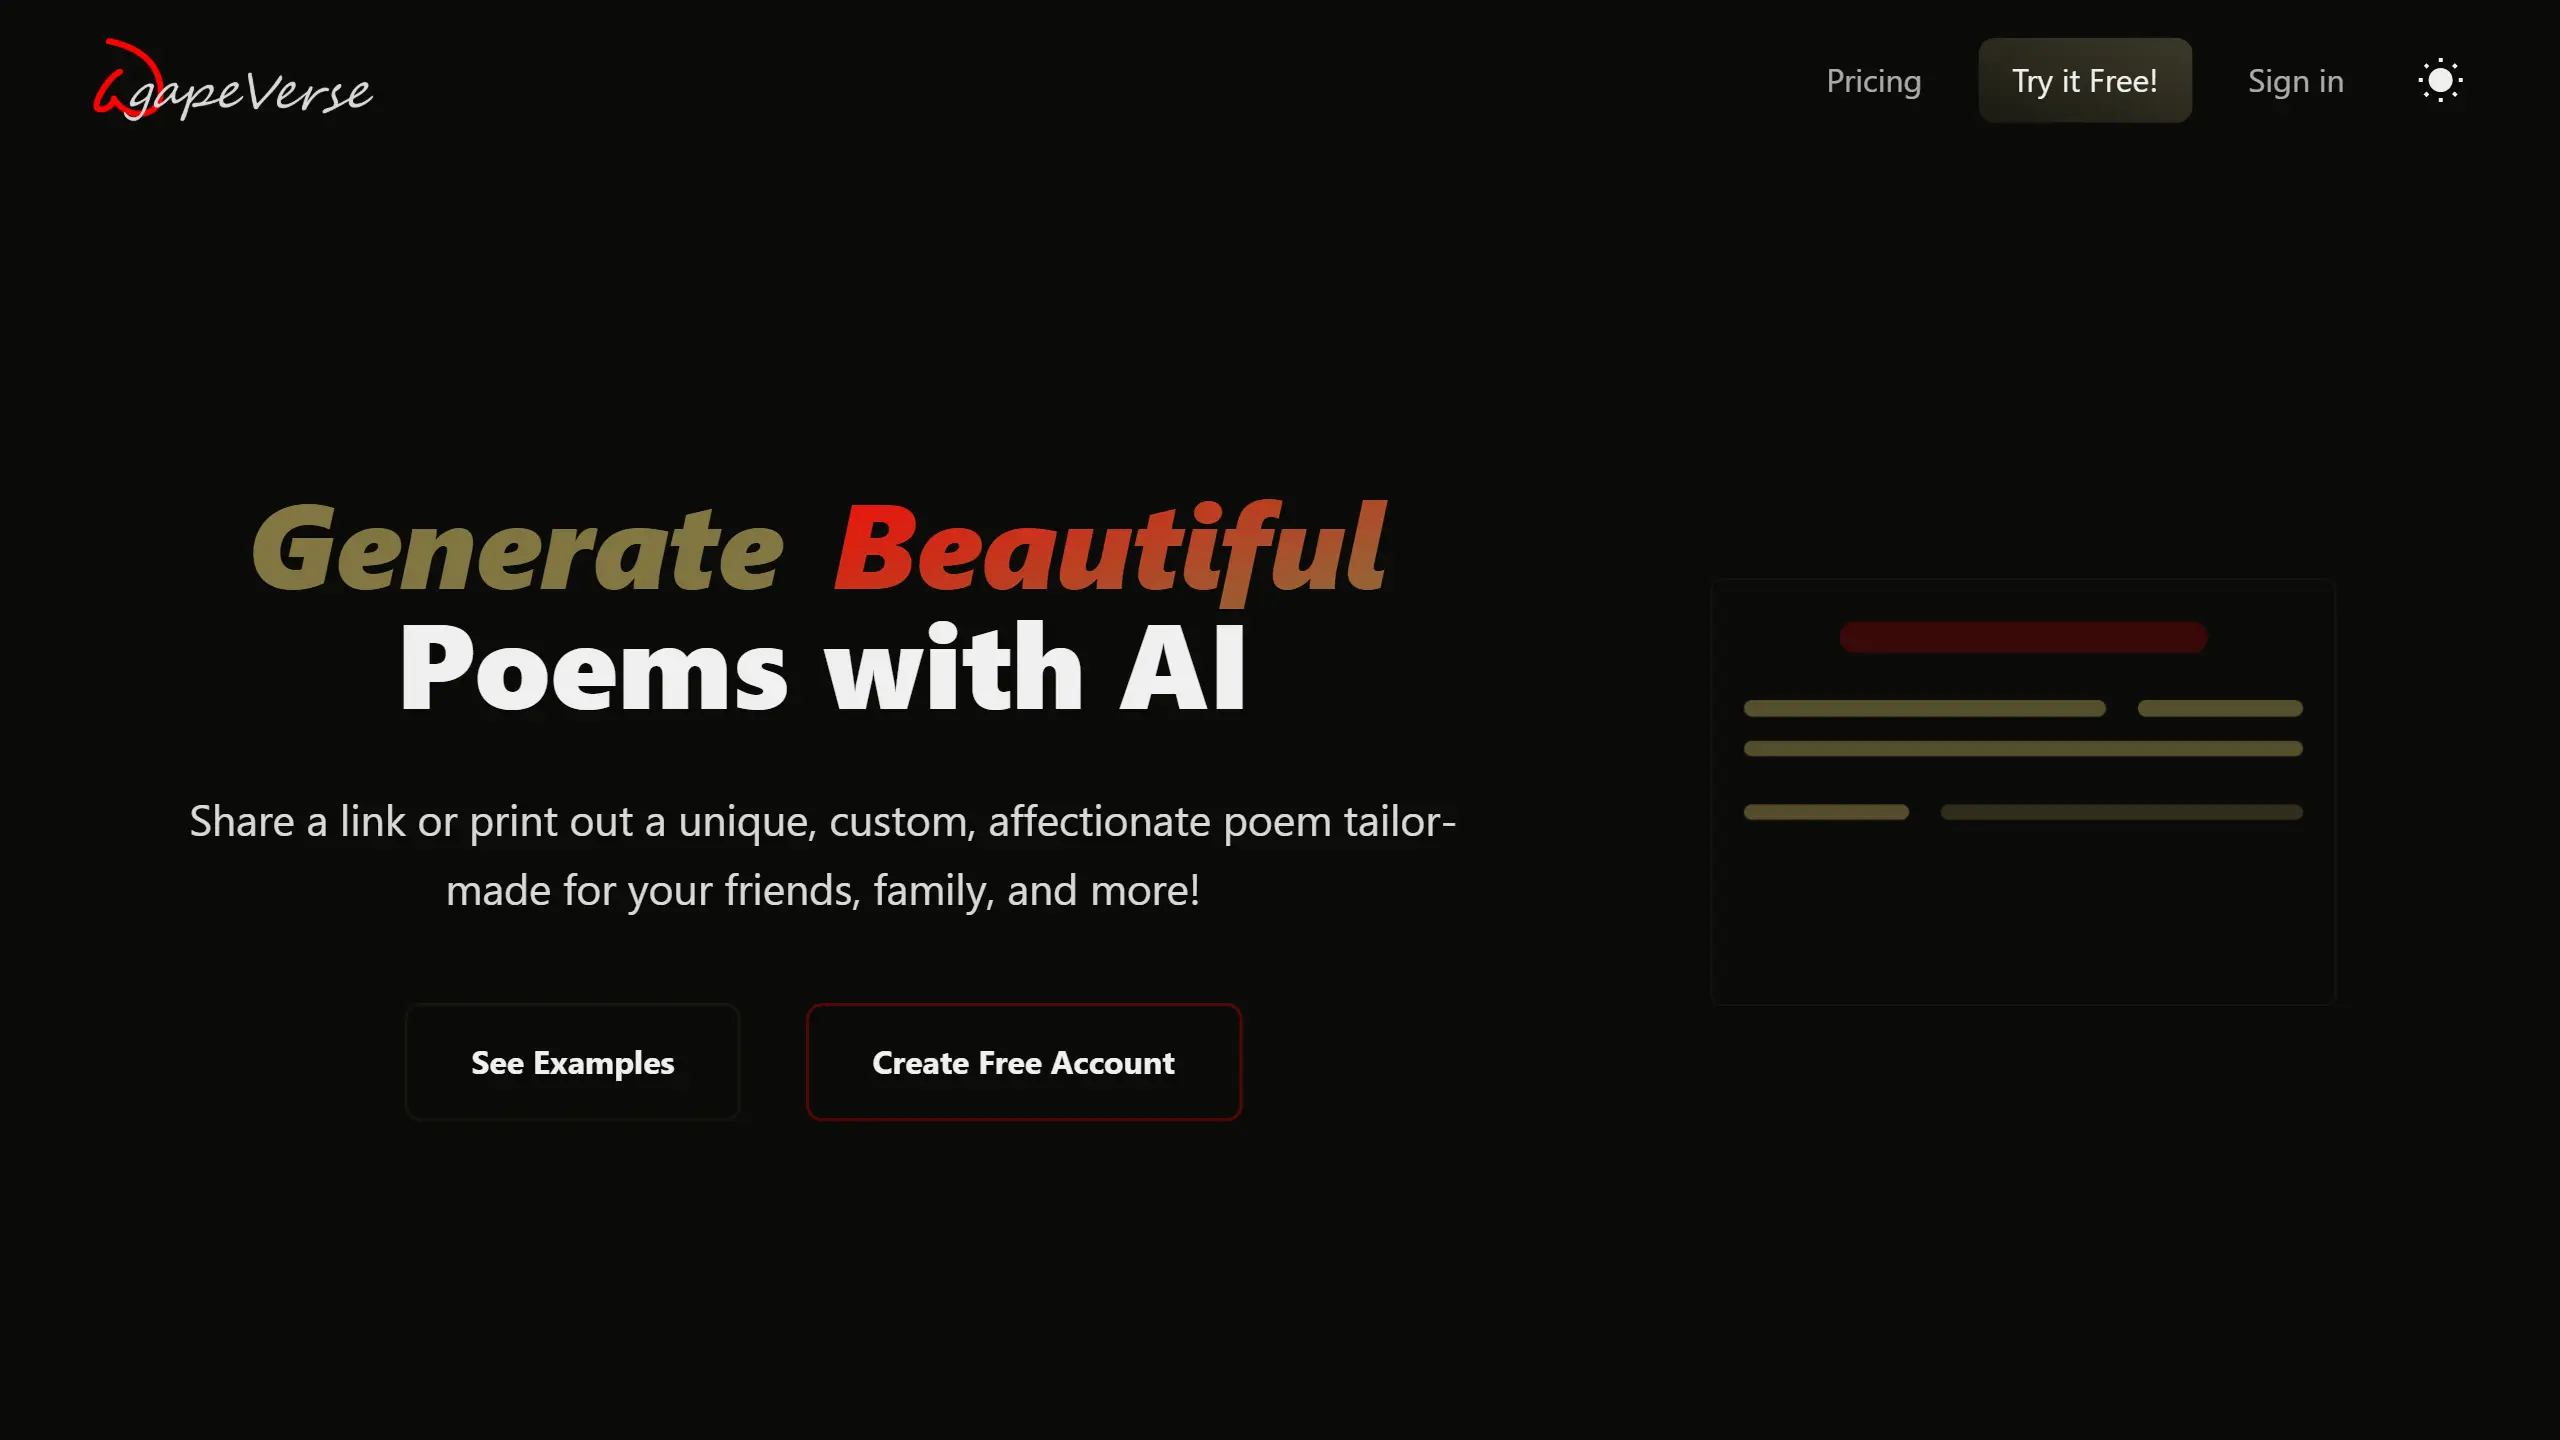
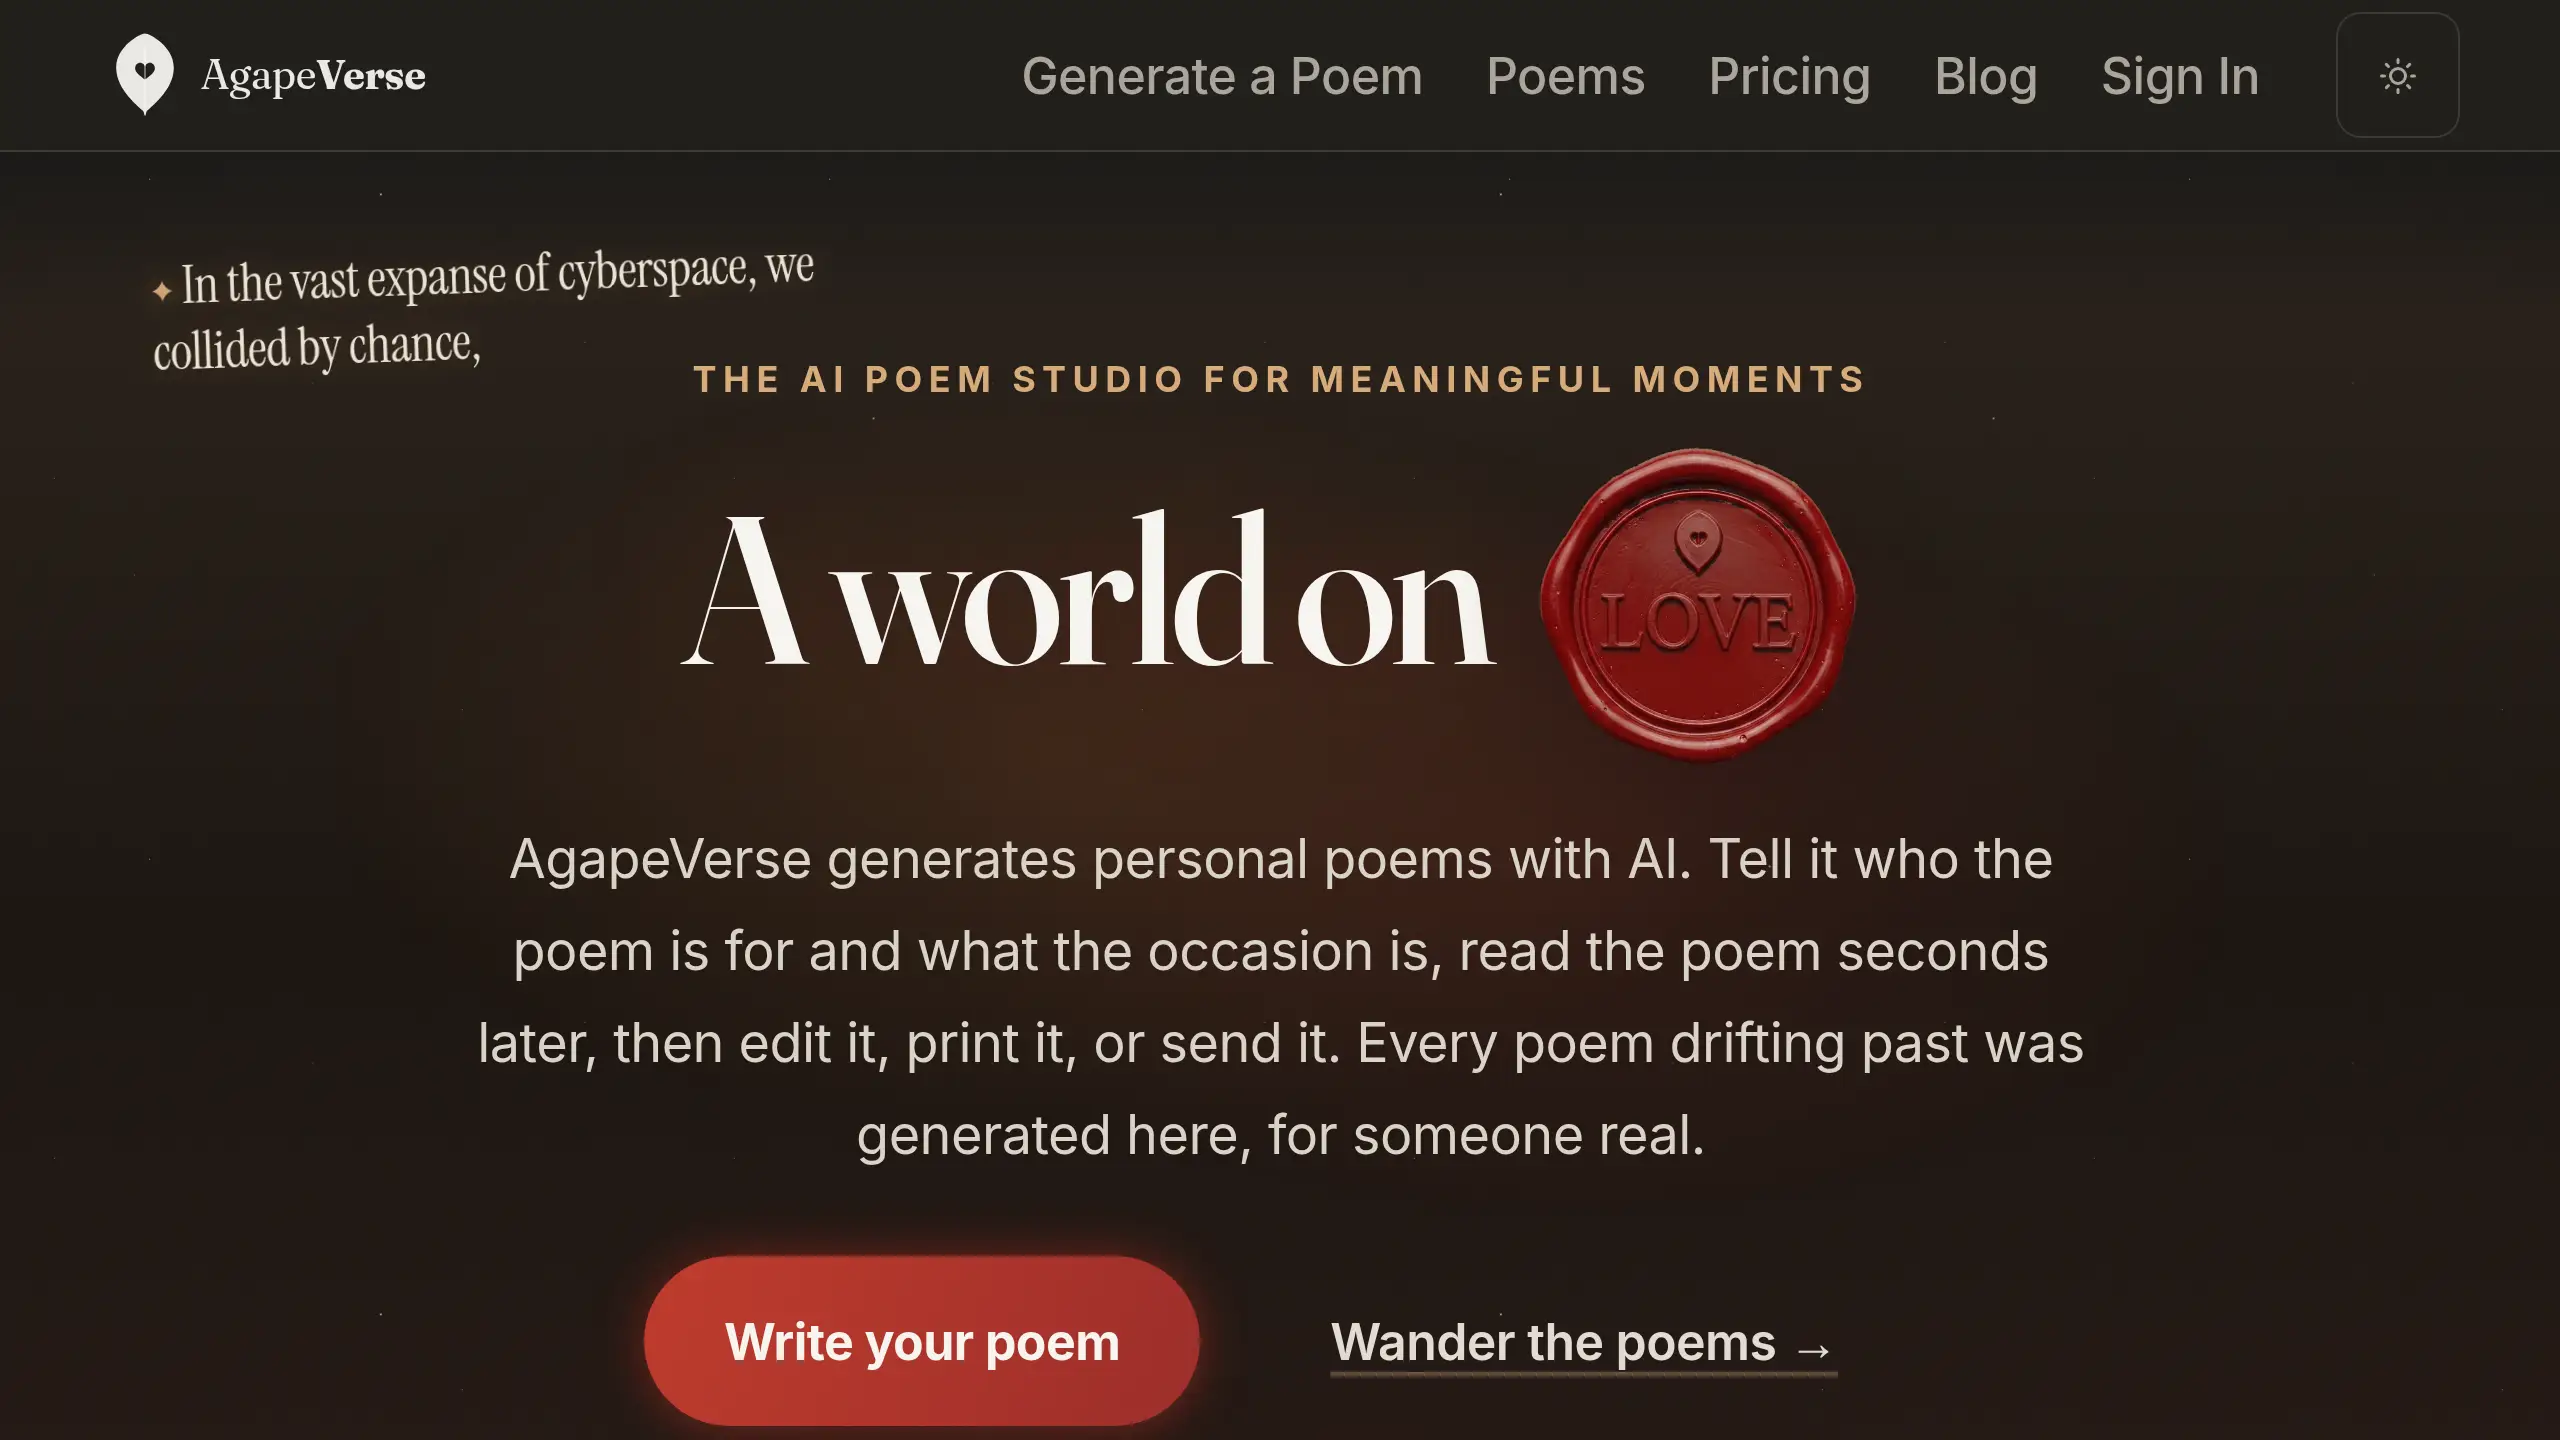
Rewrite the AgapeVerse portfolio entry for the app as it stands
The entry still described the 2024 Deno Fresh original — Deno Deploy, a
two-line body, and a card screenshot of a site that no longer exists.
agapeverse.app now serves the NebulaKit rebuild.

Replaces it with the current app: what it makes (basic, acrostic
hidden-message, and workshop revisions), how it is built (SvelteKit on
Cloudflare, multi-provider generation across OpenAI, Anthropic and Workers
AI, Stripe billing metered in HeartPoints), and four screenshots — home,
a poem permalink, the community gallery, and pricing. Cross-links the
NebulaKit entry. Card screenshot recaptured.

Rewritten rather than added alongside: safeFilename() derives the card
image from the project URL, so a second entry for agapeverse.app would
collide on the same file.

Portfolio dates were formatted in local time, so a date-only value like
2026-08-26 rendered as the 25th west of Greenwich. Both portfolio views
now format in UTC.

Claude-Session: https://claude.ai/code/session_01HCsMgAYWcjdEvT5a3kLV8y

diff --git a/src/routes/portfolio/+page.svelte b/src/routes/portfolio/+page.svelte
@@ -15,7 +15,14 @@
 	function formatDate(dateString: string | undefined): string {
 		if (!dateString) return '';
 		const date = new Date(dateString);
-		return date.toLocaleDateString('en-US', { year: 'numeric', month: 'long', day: 'numeric' });
+		// UTC, not local: a date-only frontmatter value ("2026-08-26") parses as
+		// UTC midnight, which formats as the previous day west of Greenwich.
+		return date.toLocaleDateString('en-US', {
+			year: 'numeric',
+			month: 'long',
+			day: 'numeric',
+			timeZone: 'UTC'
+		});
 	}
 </script>
 

diff --git a/src/routes/portfolio/project/[slug]/+page.svelte b/src/routes/portfolio/project/[slug]/+page.svelte
@@ -19,7 +19,14 @@
 	function formatDate(dateString: string | undefined): string {
 		if (!dateString) return '';
 		const date = new Date(dateString);
-		return date.toLocaleDateString('en-US', { year: 'numeric', month: 'long', day: 'numeric' });
+		// UTC, not local: a date-only frontmatter value ("2026-08-26") parses as
+		// UTC midnight, which formats as the previous day west of Greenwich.
+		return date.toLocaleDateString('en-US', {
+			year: 'numeric',
+			month: 'long',
+			day: 'numeric',
+			timeZone: 'UTC'
+		});
 	}
 </script>
 

diff --git a/src/projects/agapeverse.md b/src/projects/agapeverse.md
@@ -1,18 +1,62 @@
 ---
 url: "https://agapeverse.app"
 title: "AgapeVerse"
-summary: "WebApp started October 2024 to help everyone generate love poems (with AI)."
+summary: "An AI poem studio — tell it who the poem is for and what the occasion is, then edit, print, or send what comes back. Started on Deno Fresh in October 2024, rebuilt on NebulaKit."
 technologies: [
-  "Deno",
-  "Deno Fresh",
-  "Tailwind",
-  "Deno Deploy",
+  "SvelteKit",
+  "TypeScript",
+  "Cloudflare Pages",
+  "D1",
+  "KV",
+  "R2",
+  "Stripe",
   "OpenAI",
+  "Anthropic",
   "Cloudflare Workers AI",
-  "Cloudflare AI Gateway",
+  "TipTap",
+  "Vitest",
+  "Playwright",
 ]
-latestContribution: 2025-02-17T19:30:00.000Z
+latestContribution: 2026-08-26
 ---
 
-I created this as a small side project from a passion to share goodness with the
-world.
+AgapeVerse writes personal poems. You say who it is for and what the occasion
+is, the poem arrives seconds later, and then you can work on it — edit it,
+print it, or send it. It started as a small side project from a passion to
+share goodness with the world, and it kept growing.
+
+![The AgapeVerse home page](/agapeverse/home.webp)
+
+## What it makes
+
+Poems come in a few shapes. A basic poem is the straight ask. A hidden-message
+poem is an acrostic — the first letters spell out something only the recipient
+will catch. The workshop takes a poem you already have and revises it against
+a note about what you want changed.
+
+Every poem gets a permalink, and the ones people choose to make public can be
+read by anyone.
+
+![A generated poem on its permalink page](/agapeverse/poem.webp)
+
+Those public poems collect in a community gallery.
+
+![The community poem gallery](/agapeverse/poems.webp)
+
+## How it is built
+
+The original ran on Deno Fresh and Deno Deploy. It now runs on
+[NebulaKit](/portfolio/project/nebulakit), my SvelteKit starter for
+Cloudflare's stack — D1 for data, KV for sessions, R2 for files, GitHub,
+Google and Discord sign-in, and a CMS-backed blog.
+
+Generation is multi-provider rather than tied to one vendor: OpenAI,
+Anthropic, and Cloudflare Workers AI all sit behind one interface, with model
+choice and keys configurable from the admin UI. There is a streaming chat
+workspace and voice sessions on top of it.
+
+Billing runs on Stripe. Capacity is metered in HeartPoints — a credit that
+different poem types spend at different rates, so the free tier is a real
+allowance rather than a trial, and unused credit carries over on paid plans.
+
+![The AgapeVerse pricing page](/agapeverse/pricing.webp)
